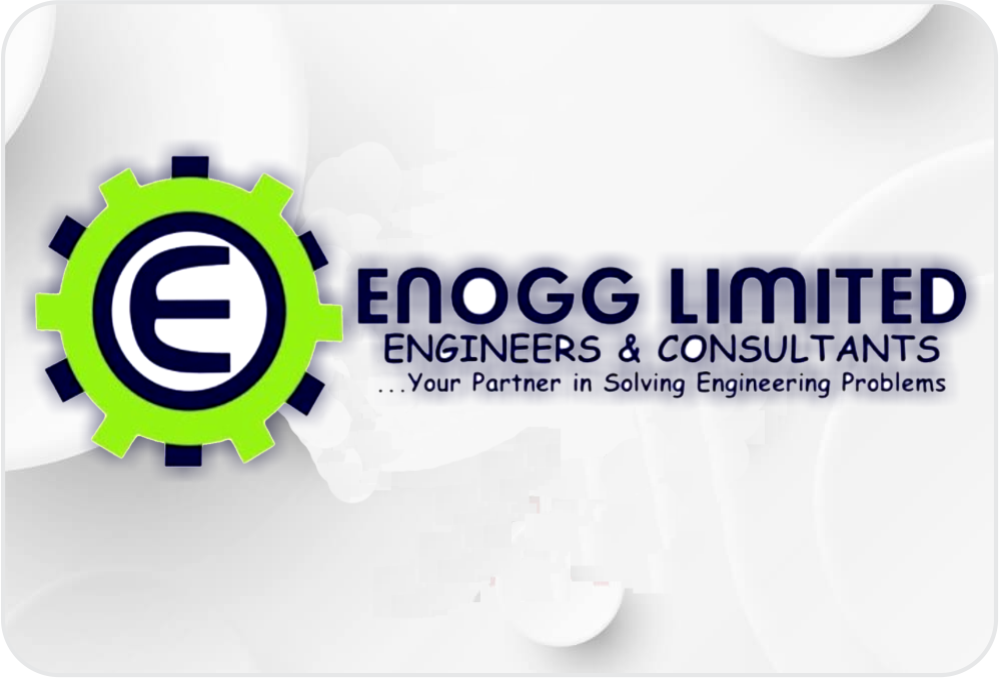
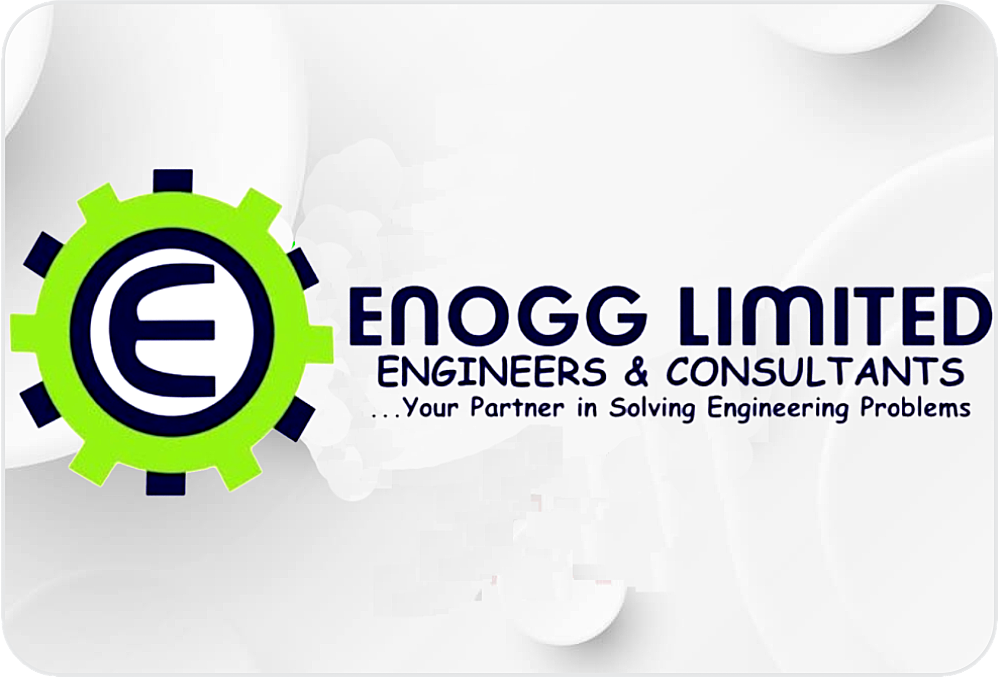
Updated the home page
Updated the home page of the website to suit more appealing in the landing page

Changed region(s): [[0.0, 0.2168, 0.993, 0.7434], [0.0, 0.1549, 0.031, 0.2168]]

diff --git a/css/style.css b/css/style.css
@@ -164,15 +164,15 @@ section {
 }
 #about1_image .front {
     position: relative;
-    top: -10px;
-    left: -80px;
+    top: 20px;
+    left: -40px;
     z-index: 1;
-    width: 700px;
+    width: 600px;
 }
 
 #about1_text h2 {
     position: relative;
-    left: 50px;
+    left: 20px;
     font-size: 48px;
     font-weight: 600;
     padding-bottom: 10px;
@@ -185,14 +185,15 @@ section {
 
 #about1_text p {
     position: relative;
-    left: 50px;
+    left: 20px;
     padding-bottom: 10px;
     text-align: justify;
 }
 
 #about1_text .about_btn {
     position: relative;
-    left: 50px;
+    top: -10px;
+    left: 20px;
     margin-top: 30px;
     text-decoration: none;
 }
@@ -210,15 +211,15 @@ section {
 }
 #about2_image .front {
     position: relative;
-    top: -10px;
-    left: -80px;
+    top: 20px;
+    left: -40px;
     z-index: 1;
-    width: 700px;
+    width: 600px;
 }
 
 #about2_text h2 {
     position: relative;
-    left: 50px;
+    left: 20px;
     font-size: 48px;
     font-weight: 600;
     padding-bottom: 10px;
@@ -231,7 +232,7 @@ section {
 
 #about2_text p {
     position: relative;
-    left: 50px;
+    left: 20px;
     padding-bottom: 10px;
     text-align: justify;
 }
@@ -245,7 +246,7 @@ section {
 
 #about2_text .about_btn {
     position: relative;
-    left: 50px;
+    left: 20px;
     margin-top: 30px;
     text-decoration: none;
 }
